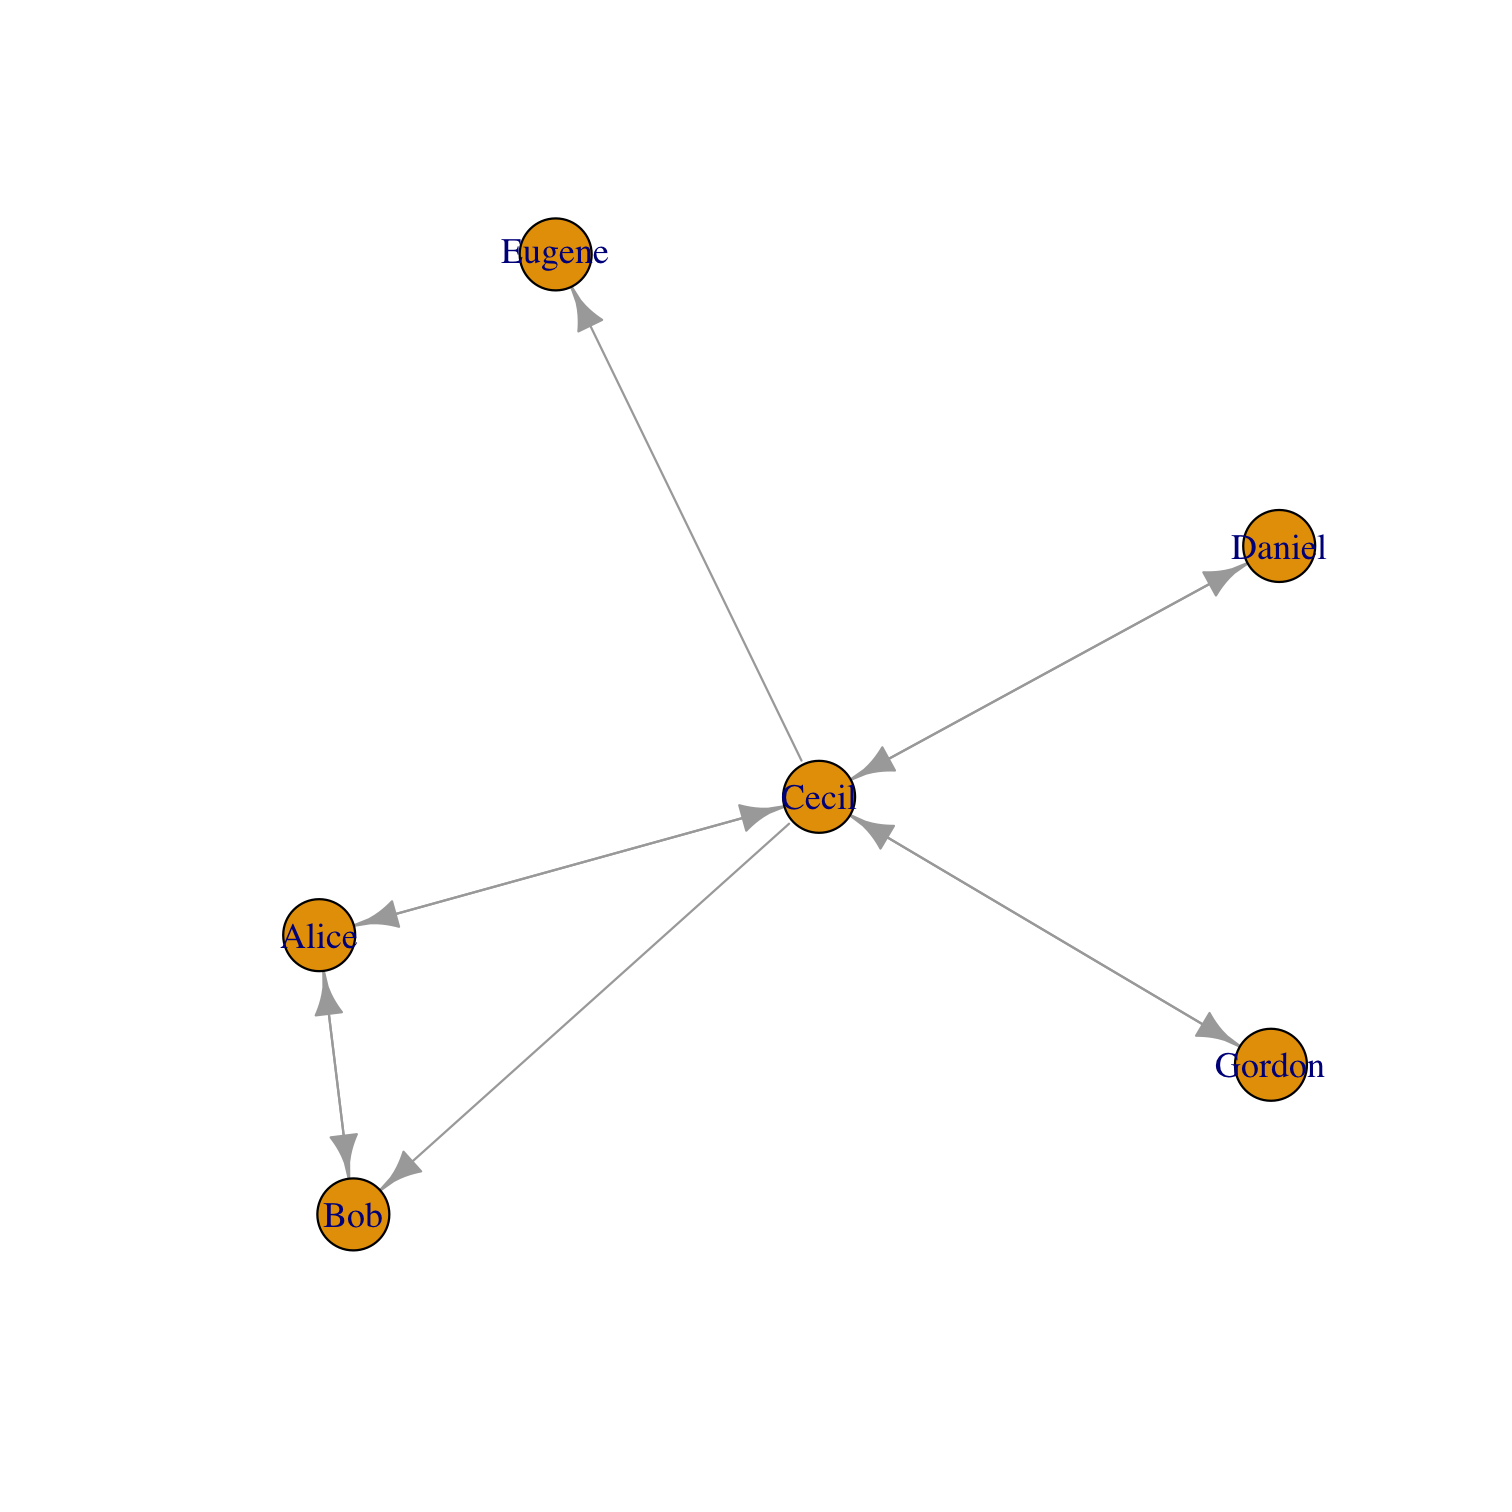
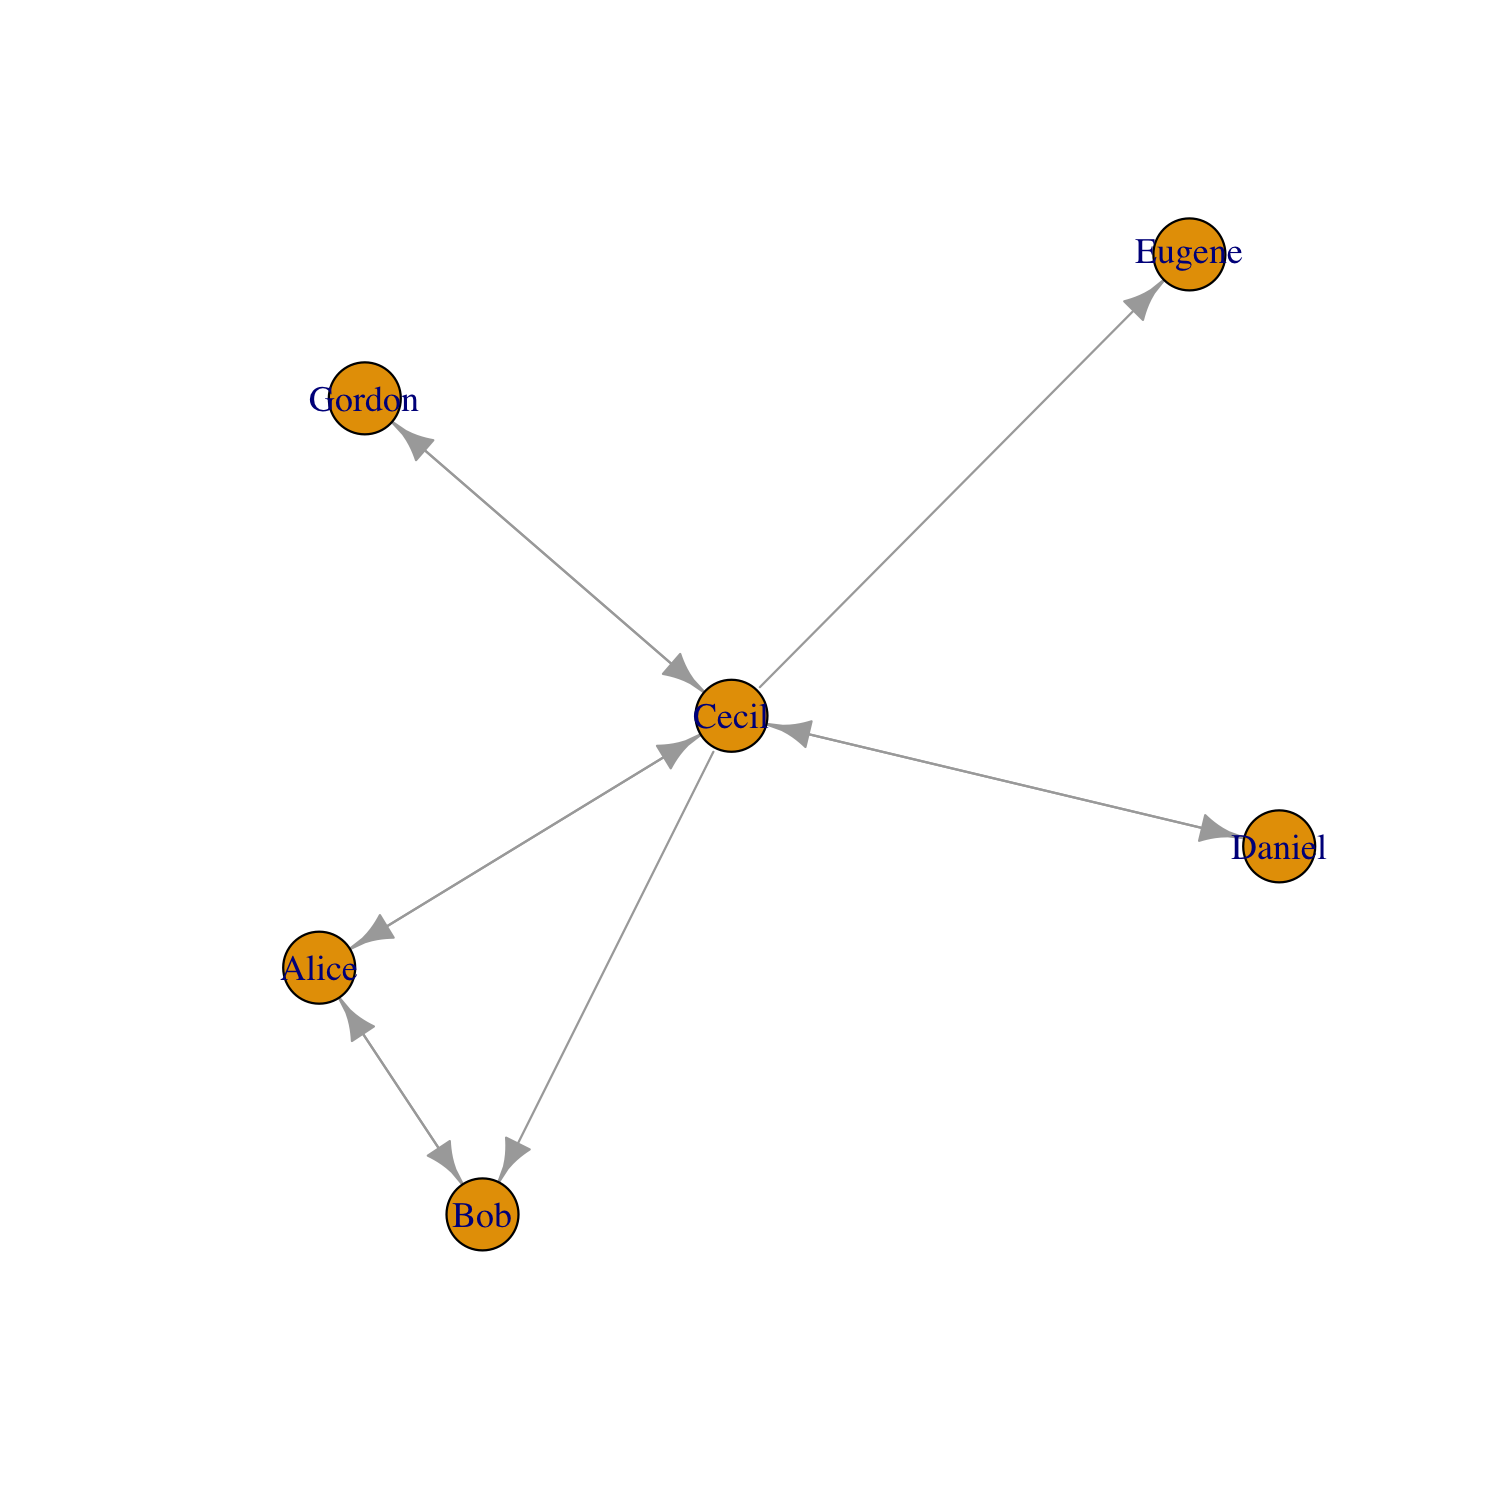
spatial nets

diff --git a/static/slides/libs/remark-css-0.0.1/default.css b/static/slides/libs/remark-css-0.0.1/default.css
@@ -70,75 +70,3 @@ th, td { padding: 5px; }
     left: 0 !important;
   }
 }
-a, a > code {
-  color: rgb(249, 38, 114);
-  text-decoration: none;
-}
-.footnote {
-  position: absolute;
-  bottom: 3em;
-  padding-right: 4em;
-  font-size: 90%;
-}
-.remark-code-line-highlighted     { background-color: #ffff88; }
-
-.inverse {
-  background-color: #272822;
-  color: #d6d6d6;
-  text-shadow: 0 0 20px #333;
-}
-.inverse h1, .inverse h2, .inverse h3 {
-  color: #f3f3f3;
-}
-/* Two-column layout */
-.left-column {
-  color: #777;
-  width: 20%;
-  height: 92%;
-  float: left;
-}
-.left-column h2:last-of-type, .left-column h3:last-child {
-  color: #000;
-}
-.right-column {
-  width: 75%;
-  float: right;
-  padding-top: 1em;
-}
-.pull-left {
-  float: left;
-  width: 47%;
-}
-.pull-right {
-  float: right;
-  width: 47%;
-}
-.pull-right + * {
-  clear: both;
-}
-img, video, iframe {
-  max-width: 100%;
-}
-blockquote {
-  border-left: solid 5px lightgray;
-  padding-left: 1em;
-}
-.remark-slide table {
-  margin: auto;
-  border-top: 1px solid #666;
-  border-bottom: 1px solid #666;
-}
-.remark-slide table thead th { border-bottom: 1px solid #ddd; }
-th, td { padding: 5px; }
-.remark-slide thead, .remark-slide tfoot, .remark-slide tr:nth-child(even) { background: #eee }
-
-@page { margin: 0; }
-@media print {
-  .remark-slide-scaler {
-    width: 100% !important;
-    height: 100% !important;
-    transform: scale(1) !important;
-    top: 0 !important;
-    left: 0 !important;
-  }
-}

diff --git a/static/slides/05-slides.html b/static/slides/05-slides.html
@@ -84,7 +84,29 @@ Fall 2021]
 &lt;img src="05-slides_files/figure-html/digraph-1.png" width="504" style="display: block; margin: auto;" /&gt;
 ]
 ---
+# Types of Networks
+.pull-left[
+- Uweighted
 
+&lt;img src="05-slides_files/figure-html/unwtgraph-1.png" width="504" style="display: block; margin: auto;" /&gt;
+]
+
+.pull-right[
+- Weighted
+
+&lt;img src="05-slides_files/figure-html/wtgraph-1.png" width="504" style="display: block; margin: auto;" /&gt;
+
+]
+---
+class: middle
+# Types of Graphs
+
+- Many additional common types of graphs (beyond the scope of this course)
+
+- Connected graphs, bipartite graphs, acyclic graphs are common in our field(s)
+
+- Check out Vicken Hillis' HES 597: Social Network Analysis course for more
+---
 name: apps
 class: center middle main-title section-title-4
 
@@ -160,7 +182,17 @@ Adapted from Palomo et. al 2014
 ]
 ]
 ---
+name: spatial
+class: center middle main-title section-title-4
 
+# Spatial Networks
+---
+
+- Space is often _implicit_ in network analyses
+
+- Probability of finding a link decreases with distance
+
+- Different edge weights may alter these probabilities
 
     </textarea>
 <style data-target="print-only">@media screen {.remark-slide-container{display:block;}.remark-slide-scaler{box-shadow:none;}}</style>

diff --git a/static/slides/libs/header-attrs-2.10/header-attrs.js b/static/slides/libs/header-attrs-2.10/header-attrs.js
@@ -10,15 +10,3 @@ document.addEventListener('DOMContentLoaded', function(e) {
     while (a.length > 0) h.removeAttribute(a[0].name);
   }
 });
-// Pandoc 2.9 adds attributes on both header and div. We remove the former (to
-// be compatible with the behavior of Pandoc < 2.8).
-document.addEventListener('DOMContentLoaded', function(e) {
-  var hs = document.querySelectorAll("div.section[class*='level'] > :first-child");
-  var i, h, a;
-  for (i = 0; i < hs.length; i++) {
-    h = hs[i];
-    if (!/^h[1-6]$/i.test(h.tagName)) continue;  // it should be a header h1-h6
-    a = h.attributes;
-    while (a.length > 0) h.removeAttribute(a[0].name);
-  }
-});
